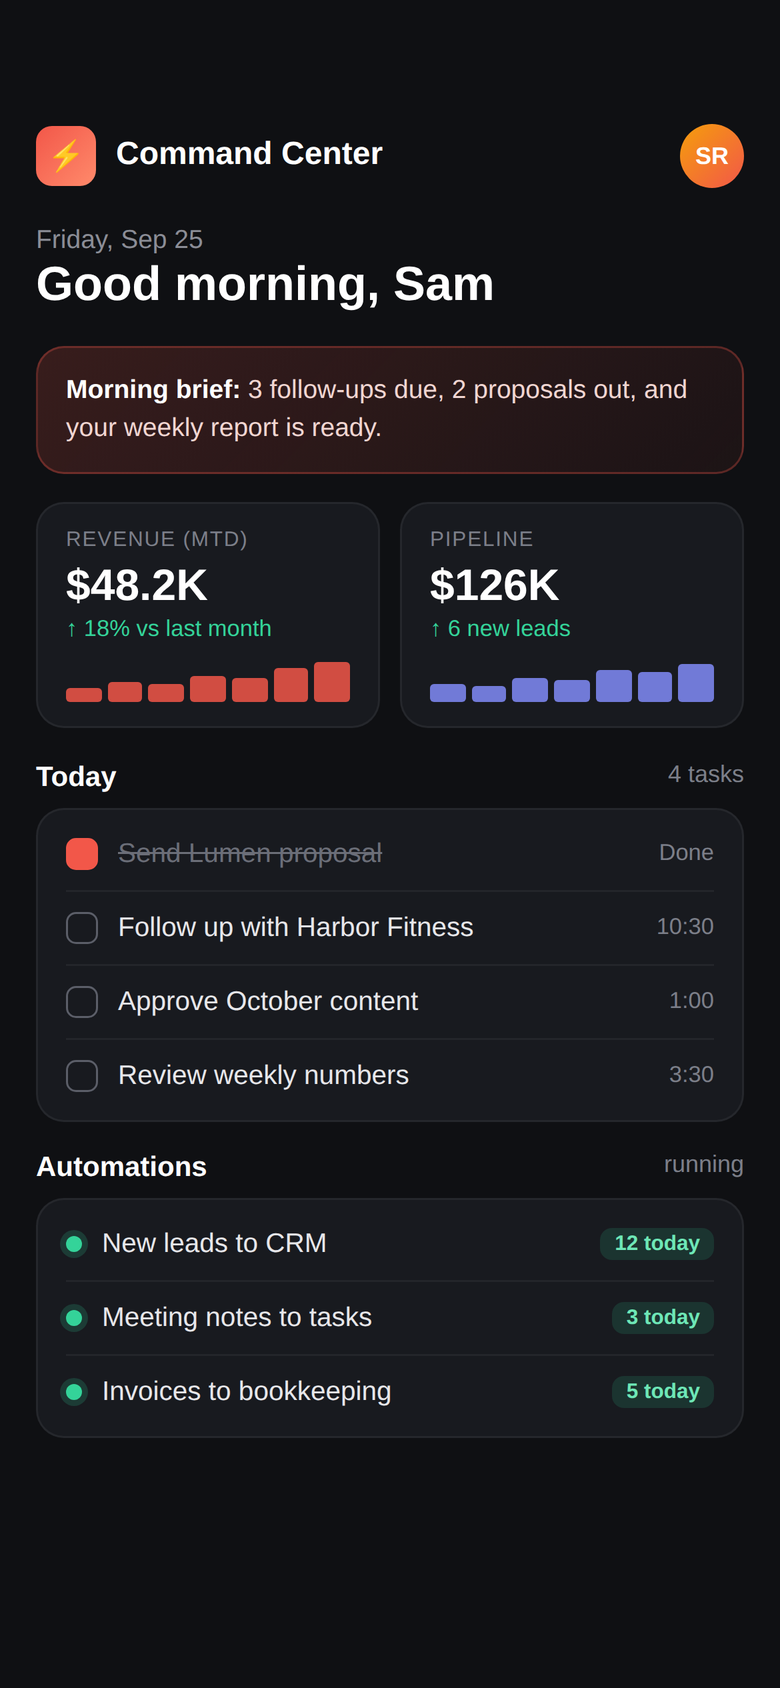
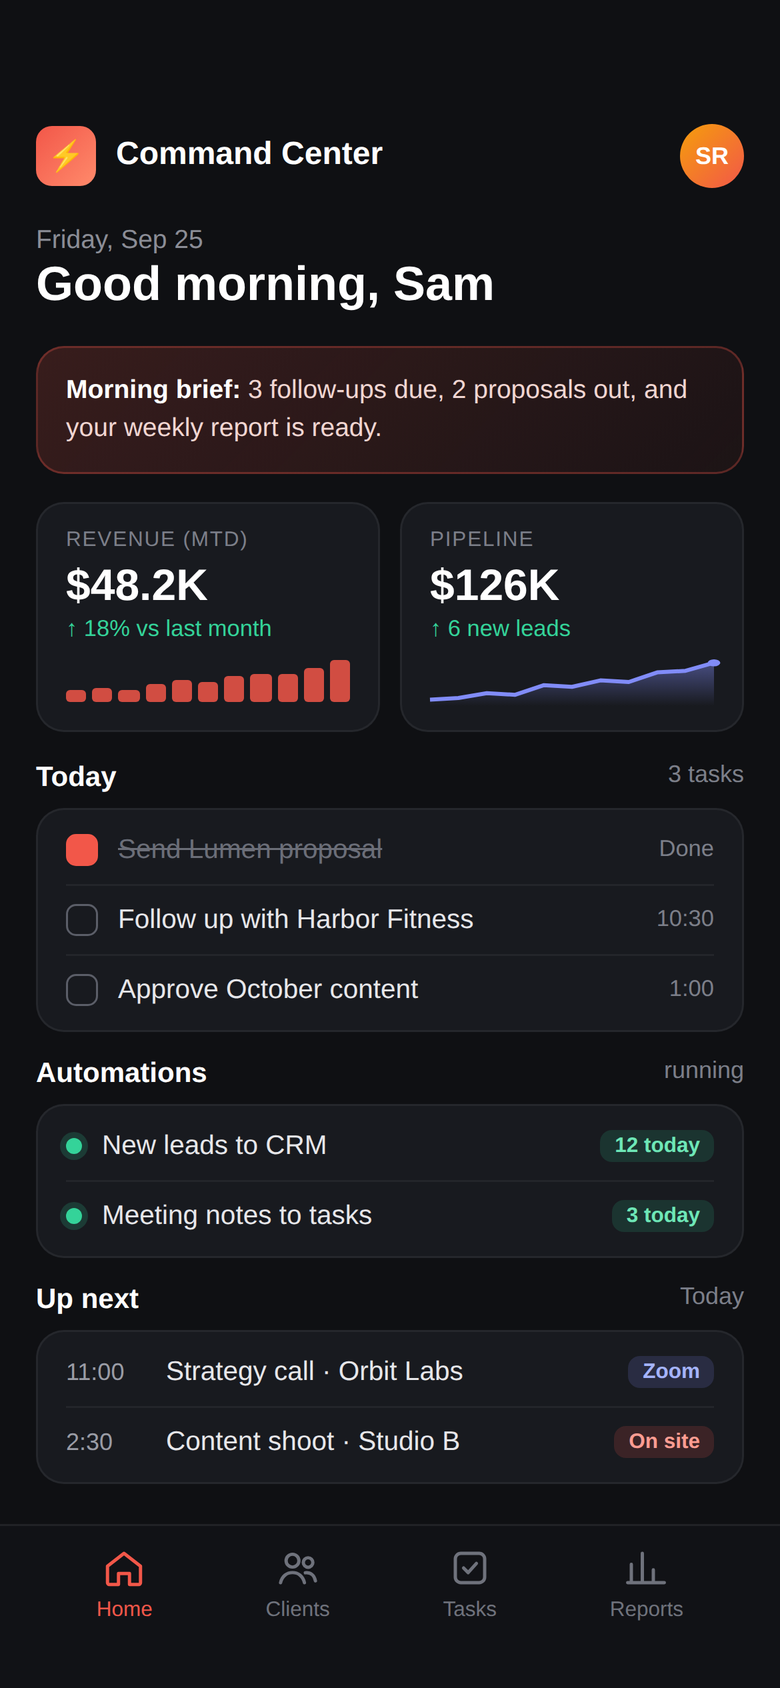
Hero: new headline; fuller phone dashboard with distinct upward charts
Claude-Session: https://claude.ai/code/session_01PuLUiqiZzAoikBgqDDcicA

diff --git a/mockups/hero_phone_dashboard.html b/mockups/hero_phone_dashboard.html
@@ -10,7 +10,7 @@ body{width:390px;height:844px;overflow:hidden;background:#0f1013;color:#e7e7ea;f
 h1{font-size:24px;font-weight:700;color:#fff;margin-bottom:16px}
 .brief{background:linear-gradient(135deg,rgba(242,87,73,.18),rgba(242,87,73,.06));border:1px solid rgba(242,87,73,.3);border-radius:14px;padding:12px 14px;font-size:13px;line-height:1.45;color:#f1d6d2;margin-bottom:14px}
 .brief b{color:#fff}
-.grid{display:grid;grid-template-columns:1fr 1fr;gap:10px;margin-bottom:16px}
+.grid{display:grid;grid-template-columns:1fr 1fr;gap:10px;margin-bottom:14px}
 .tile{background:#181a1f;border:1px solid rgba(255,255,255,.06);border-radius:14px;padding:12px 14px}
 .lab{font-size:10.5px;color:#7c7f89;text-transform:uppercase;letter-spacing:.6px;margin-bottom:4px}
 .val{font-size:22px;font-weight:700;color:#fff}
@@ -19,33 +19,46 @@ h1{font-size:24px;font-weight:700;color:#fff;margin-bottom:16px}
 .spark i{flex:1;border-radius:2px;background:#F25749;opacity:.85}
 h2{font-size:14px;font-weight:600;color:#fff;margin:4px 0 8px;display:flex;justify-content:space-between}
 h2 span{font-size:12px;color:#7c7f89;font-weight:500}
-.card{background:#181a1f;border:1px solid rgba(255,255,255,.06);border-radius:14px;padding:4px 14px;margin-bottom:14px}
-.row{display:flex;align-items:center;gap:10px;padding:10px 0;border-bottom:1px solid rgba(255,255,255,.05);font-size:13.5px}
+.card{background:#181a1f;border:1px solid rgba(255,255,255,.06);border-radius:14px;padding:3px 14px;margin-bottom:12px}
+.row{display:flex;align-items:center;gap:10px;padding:9px 0;border-bottom:1px solid rgba(255,255,255,.05);font-size:13.5px}
 .row:last-child{border:none}
 .box{width:16px;height:16px;border-radius:5px;border:1.5px solid #5b5e68;flex:0 0 16px}
 .box.on{background:#F25749;border-color:#F25749}
 .row .t{flex:1}.row .m{font-size:11.5px;color:#7c7f89}
 .dot{width:8px;height:8px;border-radius:50%;background:#34d399;box-shadow:0 0 0 3px rgba(52,211,153,.18);flex:0 0 8px}
+.line{display:block;width:100%;height:24px;margin-top:8px;overflow:visible}
 .pill{font-size:10.5px;padding:2px 7px;border-radius:6px;background:rgba(52,211,153,.14);color:#6ee7b7;font-weight:600}
+.tm{font-size:12px;color:#9a9ca5;width:40px;flex:0 0 40px;font-variant-numeric:tabular-nums}
+.pill.b{background:rgba(129,140,248,.16);color:#a5b4fc}.pill.o{background:rgba(242,87,73,.16);color:#ff9d92}
+.tabs{position:absolute;left:0;right:0;bottom:0;height:82px;padding:10px 20px 26px;display:flex;justify-content:space-around;background:rgba(18,19,23,.96);border-top:1px solid rgba(255,255,255,.07)}
+.tabs a{display:flex;flex-direction:column;align-items:center;gap:4px;font-size:10.5px;color:#6f727c;font-weight:500}
+.tabs a.on{color:#F25749}
+.tabs svg{width:22px;height:22px;fill:none;stroke:currentColor;stroke-width:1.8;stroke-linecap:round;stroke-linejoin:round}
+body{position:relative}
 </style></head><body><div class="wrap">
 <div class="bar"><div class="brand"><div class="logo">⚡</div>Command Center</div><div class="av">SR</div></div>
 <div class="hi">Friday, Sep 25</div><h1>Good morning, Sam</h1>
 <div class="brief"><b>Morning brief:</b> 3 follow-ups due, 2 proposals out, and your weekly report is ready.</div>
 <div class="grid">
-<div class="tile"><div class="lab">Revenue (MTD)</div><div class="val">$48.2K</div><div class="chg">↑ 18% vs last month</div><div class="spark"><i style="height:30%"></i><i style="height:45%"></i><i style="height:38%"></i><i style="height:60%"></i><i style="height:52%"></i><i style="height:75%"></i><i style="height:90%"></i></div></div>
-<div class="tile"><div class="lab">Pipeline</div><div class="val">$126K</div><div class="chg">↑ 6 new leads</div><div class="spark"><i style="height:40%;background:#818cf8"></i><i style="height:35%;background:#818cf8"></i><i style="height:55%;background:#818cf8"></i><i style="height:50%;background:#818cf8"></i><i style="height:70%;background:#818cf8"></i><i style="height:66%;background:#818cf8"></i><i style="height:85%;background:#818cf8"></i></div></div>
+<div class="tile"><div class="lab">Revenue (MTD)</div><div class="val">$48.2K</div><div class="chg">↑ 18% vs last month</div><div class="spark"><i style="height:24%"></i><i style="height:31%"></i><i style="height:28%"></i><i style="height:40%"></i><i style="height:47%"></i><i style="height:43%"></i><i style="height:56%"></i><i style="height:64%"></i><i style="height:61%"></i><i style="height:78%"></i><i style="height:92%"></i></div></div>
+<div class="tile"><div class="lab">Pipeline</div><div class="val">$126K</div><div class="chg">↑ 6 new leads</div><svg class="line" viewBox="0 0 100 30" preserveAspectRatio="none"><defs><linearGradient id="g" x1="0" y1="0" x2="0" y2="1"><stop offset="0" stop-color="#818cf8" stop-opacity=".45"/><stop offset="1" stop-color="#818cf8" stop-opacity="0"/></linearGradient></defs><polygon points="0,30 0,26 10,25 20,22 30,23 40,17 50,18 60,14 70,15 80,9 90,8 100,3 100,30" fill="url(#g)"/><polyline points="0,26 10,25 20,22 30,23 40,17 50,18 60,14 70,15 80,9 90,8 100,3" fill="none" stroke="#818cf8" stroke-width="2" vector-effect="non-scaling-stroke" stroke-linejoin="round"/><circle cx="100" cy="3" r="2.2" fill="#818cf8"/></svg></div>
 </div>
-<h2>Today <span>4 tasks</span></h2>
+<h2>Today <span>3 tasks</span></h2>
 <div class="card">
 <div class="row"><div class="box on"></div><div class="t" style="color:#6b6e78;text-decoration:line-through">Send Lumen proposal</div><div class="m">Done</div></div>
 <div class="row"><div class="box"></div><div class="t">Follow up with Harbor Fitness</div><div class="m">10:30</div></div>
 <div class="row"><div class="box"></div><div class="t">Approve October content</div><div class="m">1:00</div></div>
-<div class="row"><div class="box"></div><div class="t">Review weekly numbers</div><div class="m">3:30</div></div>
 </div>
 <h2>Automations <span>running</span></h2>
 <div class="card">
 <div class="row"><div class="dot"></div><div class="t">New leads to CRM</div><span class="pill">12 today</span></div>
 <div class="row"><div class="dot"></div><div class="t">Meeting notes to tasks</div><span class="pill">3 today</span></div>
-<div class="row"><div class="dot"></div><div class="t">Invoices to bookkeeping</div><span class="pill">5 today</span></div>
 </div>
-</div></body></html>
+<h2>Up next <span>Today</span></h2>
+<div class="card">
+<div class="row"><div class="tm">11:00</div><div class="t">Strategy call · Orbit Labs</div><span class="pill b">Zoom</span></div>
+<div class="row"><div class="tm">2:30</div><div class="t">Content shoot · Studio B</div><span class="pill o">On site</span></div>
+</div>
+</div>
+<nav class="tabs"><a class="on"><svg viewBox="0 0 24 24"><path d="M3 11l9-7 9 7v9a1 1 0 0 1-1 1h-5v-6H9v6H4a1 1 0 0 1-1-1z"/></svg>Home</a><a><svg viewBox="0 0 24 24"><circle cx="9" cy="8" r="3.5"/><path d="M2.5 20c.8-3.6 3.4-5.5 6.5-5.5s5.7 1.9 6.5 5.5"/><circle cx="17.5" cy="9" r="2.6"/><path d="M16 14.6c2.8-.3 4.9 1.3 5.5 4.4"/></svg>Clients</a><a><svg viewBox="0 0 24 24"><rect x="4" y="4" width="16" height="16" rx="3"/><path d="M8.5 12l2.5 2.5 4.5-5"/></svg>Tasks</a><a><svg viewBox="0 0 24 24"><path d="M4 20V10M10 20V4M16 20v-7M22 20H2"/></svg>Reports</a></nav>
+</body></html>

diff --git a/index.html b/index.html
@@ -3,17 +3,17 @@
 <head>
   <meta charset="UTF-8">
   <meta name="viewport" content="width=device-width, initial-scale=1.0">
-  <meta name="description" content="Custom-built AI operating systems for leaders running real businesses. One system that connects your tools, automates your workflows, and puts everything in one place, designed around how you actually work.">
-  <meta property="og:title" content="Custom-built AI operating systems for leaders running real businesses">
+  <meta name="description" content="Custom-built AI operating systems for business leaders. One system that connects your tools, automates your workflows, and puts everything in one place, designed around how you actually work.">
+  <meta property="og:title" content="Custom-built AI operating systems for business leaders">
   <meta property="og:description" content="Your business runs on a patchwork of tools that don't talk to each other. Let's connect them into one system that automates the repetitive work and runs your workflows end-to-end. Easy to build. You own it.">
   <meta property="og:image" content="https://claude-consulting.vercel.app/og-image.png">
   <meta property="og:type" content="website">
   <meta property="og:url" content="https://claude-consulting.vercel.app">
   <meta name="twitter:card" content="summary_large_image">
-  <meta name="twitter:title" content="Custom-built AI operating systems for leaders running real businesses.">
+  <meta name="twitter:title" content="Custom-built AI operating systems for business leaders.">
   <meta name="twitter:description" content="Your business runs on a patchwork of tools that don't talk to each other. Let's connect them into one system that automates the repetitive work and runs your workflows end-to-end. Easy to build. You own it.">
   <meta name="twitter:image" content="https://claude-consulting.vercel.app/og-image.png">
-  <title>Rad Animal | Custom-built AI operating systems for leaders running real businesses.</title>
+  <title>Rad Animal | Custom-built AI operating systems for business leaders.</title>
 
   <link rel="icon" type="image/svg+xml" href="/favicon.svg">
   <link rel="icon" type="image/png" href="/favicon.png">
@@ -2794,7 +2794,7 @@
       "@type": "ProfessionalService",
       "name": "Rad Animal AI Consulting",
       "url": "https://claude-consulting.vercel.app",
-      "description": "Custom-built AI operating systems for leaders running real businesses.",
+      "description": "Custom-built AI operating systems for business leaders.",
       "founder": {
         "@type": "Person",
         "name": "Jake Goble"
@@ -2873,7 +2873,7 @@
     <canvas id="particle-canvas"></canvas>
     <div class="hero-inner">
     <div class="hero-content">
-      <h1 class="hero-title" aria-label="Custom-built AI operating systems for leaders running real businesses."><span class="word" style="animation-delay:0.1s">Custom-built</span> <span class="word" style="animation-delay:0.2s">AI</span> <span class="word" style="animation-delay:0.3s">operating</span> <span class="word" style="animation-delay:0.4s">systems</span> <span class="word" style="animation-delay:0.55s">for</span> <span class="word" style="animation-delay:0.65s">leaders</span> <span class="word" style="animation-delay:0.75s">running</span> <span class="word" style="animation-delay:0.9s">real</span> <span class="word" style="animation-delay:1.05s">businesses.</span></h1>
+      <h1 class="hero-title" aria-label="Custom-built AI operating systems for business leaders."><span class="word" style="animation-delay:0.1s">Custom-built</span> <span class="word" style="animation-delay:0.2s">AI</span> <span class="word" style="animation-delay:0.3s">operating</span> <span class="word" style="animation-delay:0.4s">systems</span> <span class="word" style="animation-delay:0.55s">for</span> <span class="word" style="animation-delay:0.7s">business</span> <span class="word" style="animation-delay:0.85s">leaders.</span></h1>
       <p class="hero-subtitle">Your business runs on a patchwork of tools that don't talk to each other. Let's connect them into one system that automates the repetitive work and runs your workflows end-to-end. Easy to build. You own it.</p>
       <div class="hero-ctas">
         <a href="https://cal.com/radanimal" target="_blank" rel="noopener noreferrer" class="btn btn-primary">Book a Strategy Call</a>
